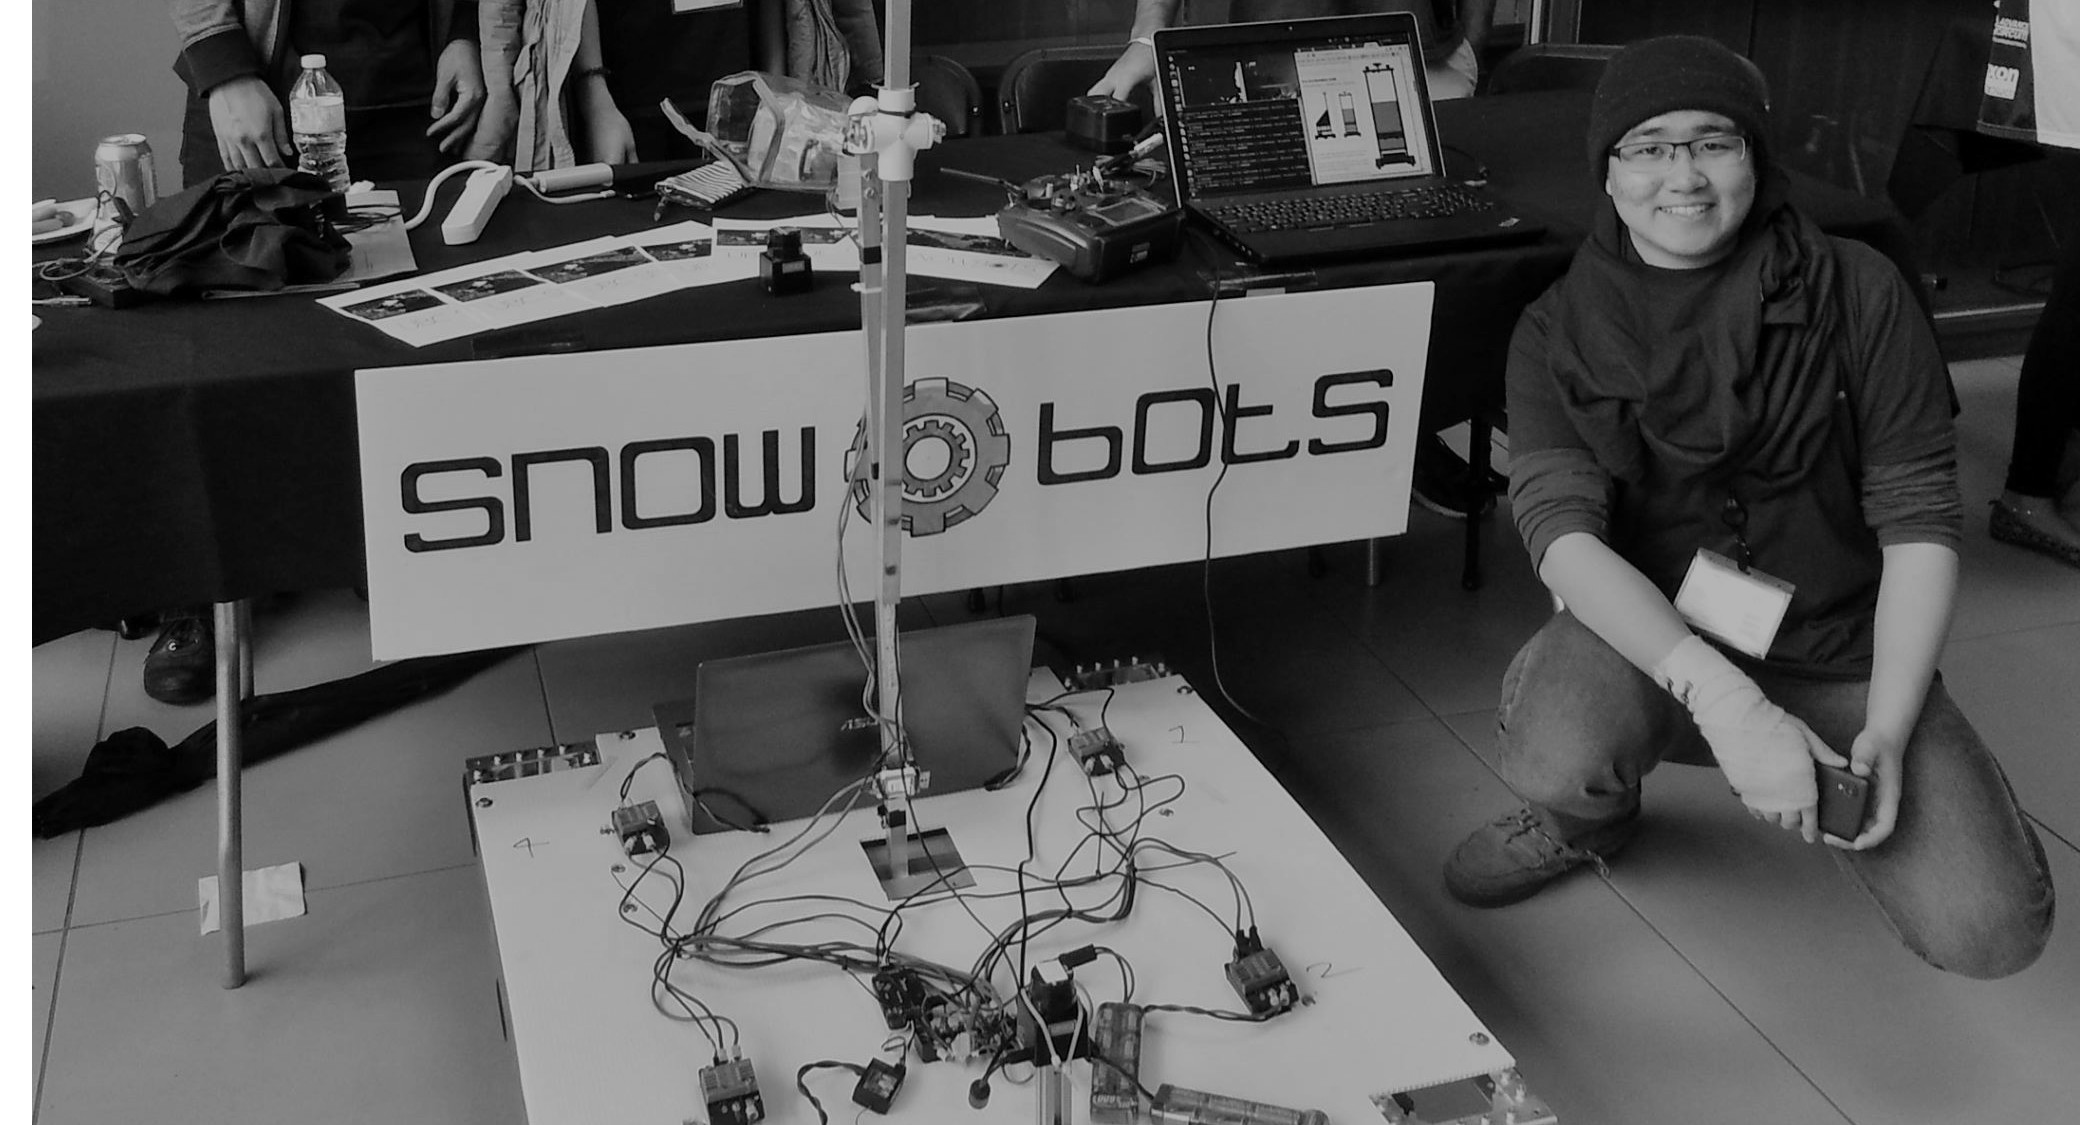
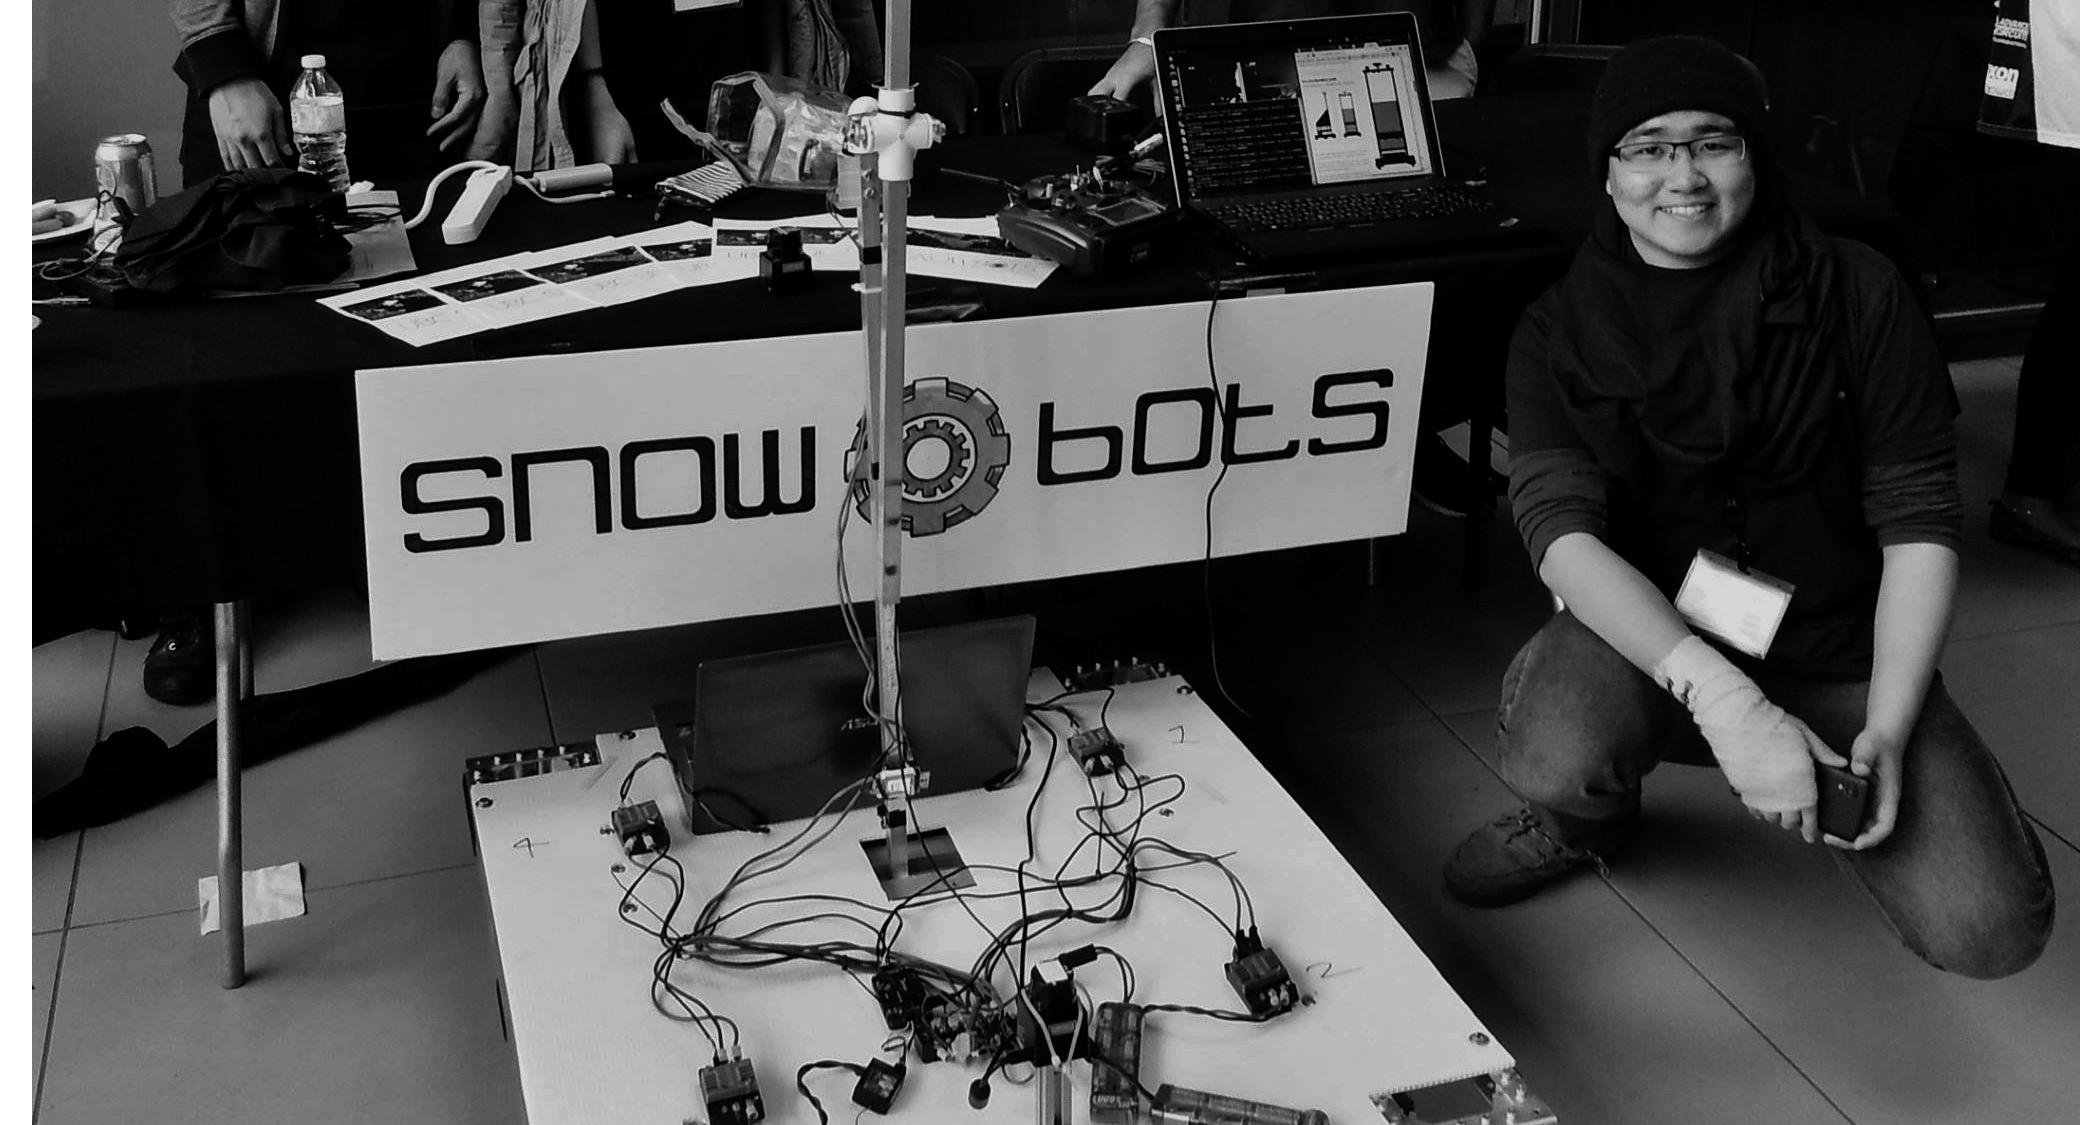
slight pic tweak

diff --git a/index.html b/index.html
@@ -96,6 +96,7 @@
                 <p>I am an Electrical Computer Engineering Student currently studying at the Univeristy of British Columbia!</p>
                 <p>Curently, other than side projects and school projects that I am working on, I am a member of UBC Snowbots! We are a team that competes at the Intelligent Ground Vehicle Competition every year. Check us out at <a href="Snowbots.ca"> UBC-Snowbots </a></p>
                 <p>I love programming, learning and am always doing my best to learn more. You can checkout what I have worked on 			<a class="page-scroll" href="#projects">Below</a></p>
+                 <a href="" class="btn btn-default btn-lg">More About Me</a>
             </div>
         </div>
     </section>

diff --git a/css/grayscale.css b/css/grayscale.css
@@ -256,7 +256,7 @@ a:focus {
     width: 100%;
     padding: 50px 0;
     color: #fff;
-    background: url(../img/downloads-bg.jpg) no-repeat center center scroll;
+    background: url(../img/arduino.jpg) no-repeat center center scroll;
     background-color: #000;
     -webkit-background-size: cover;
     -moz-background-size: cover;
@@ -274,10 +274,6 @@ a:focus {
         padding: 100px 0;
     }
 
-    #map {
-        height: 400px;
-        margin-top: 250px;
-    }
 }
 
 .btn {
